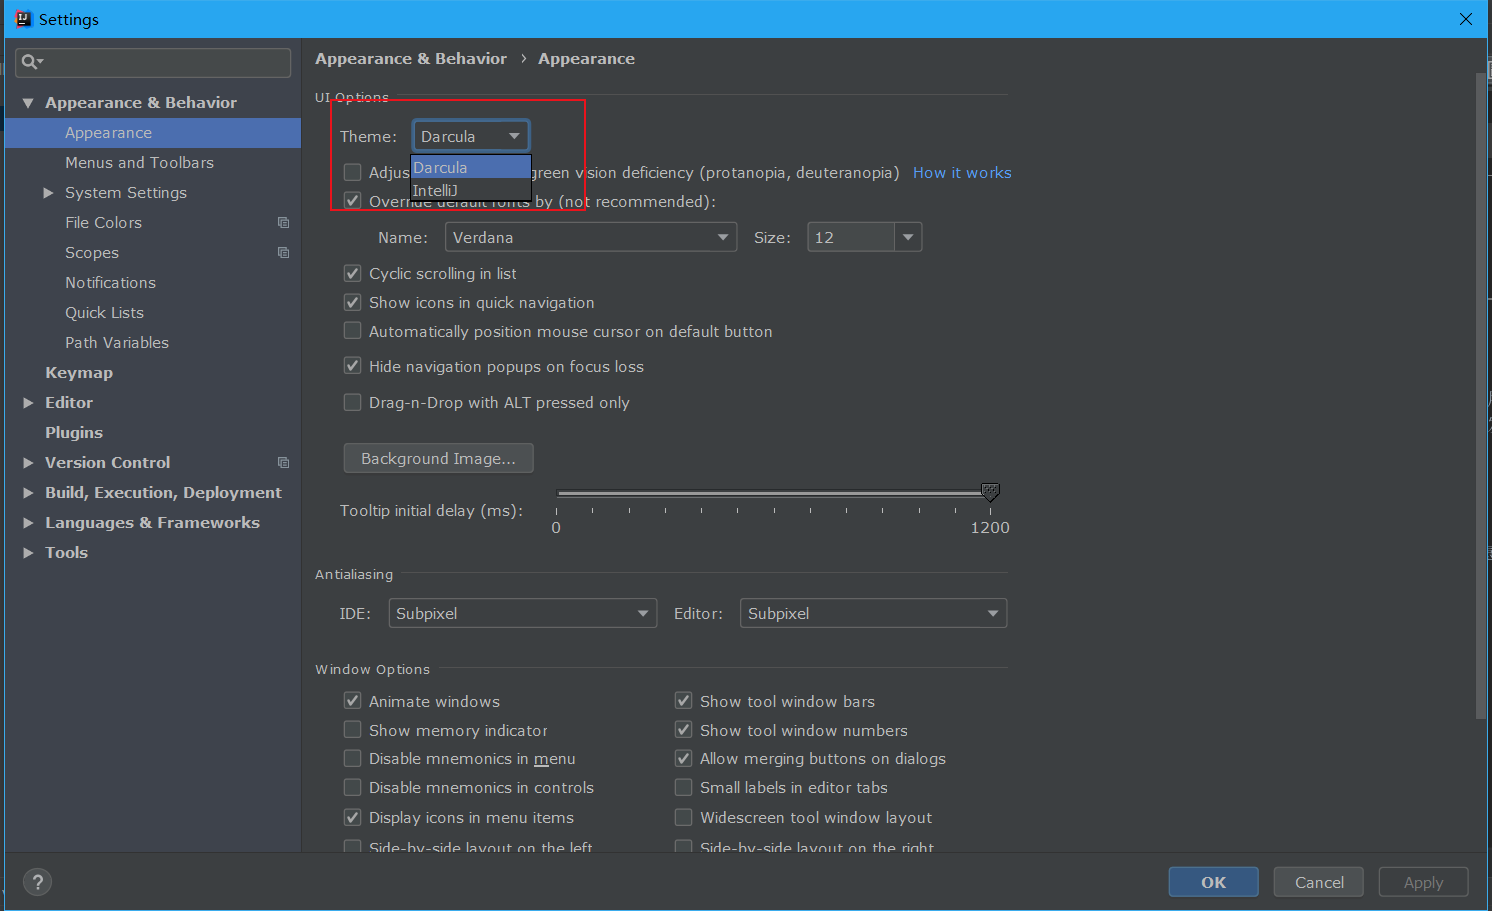
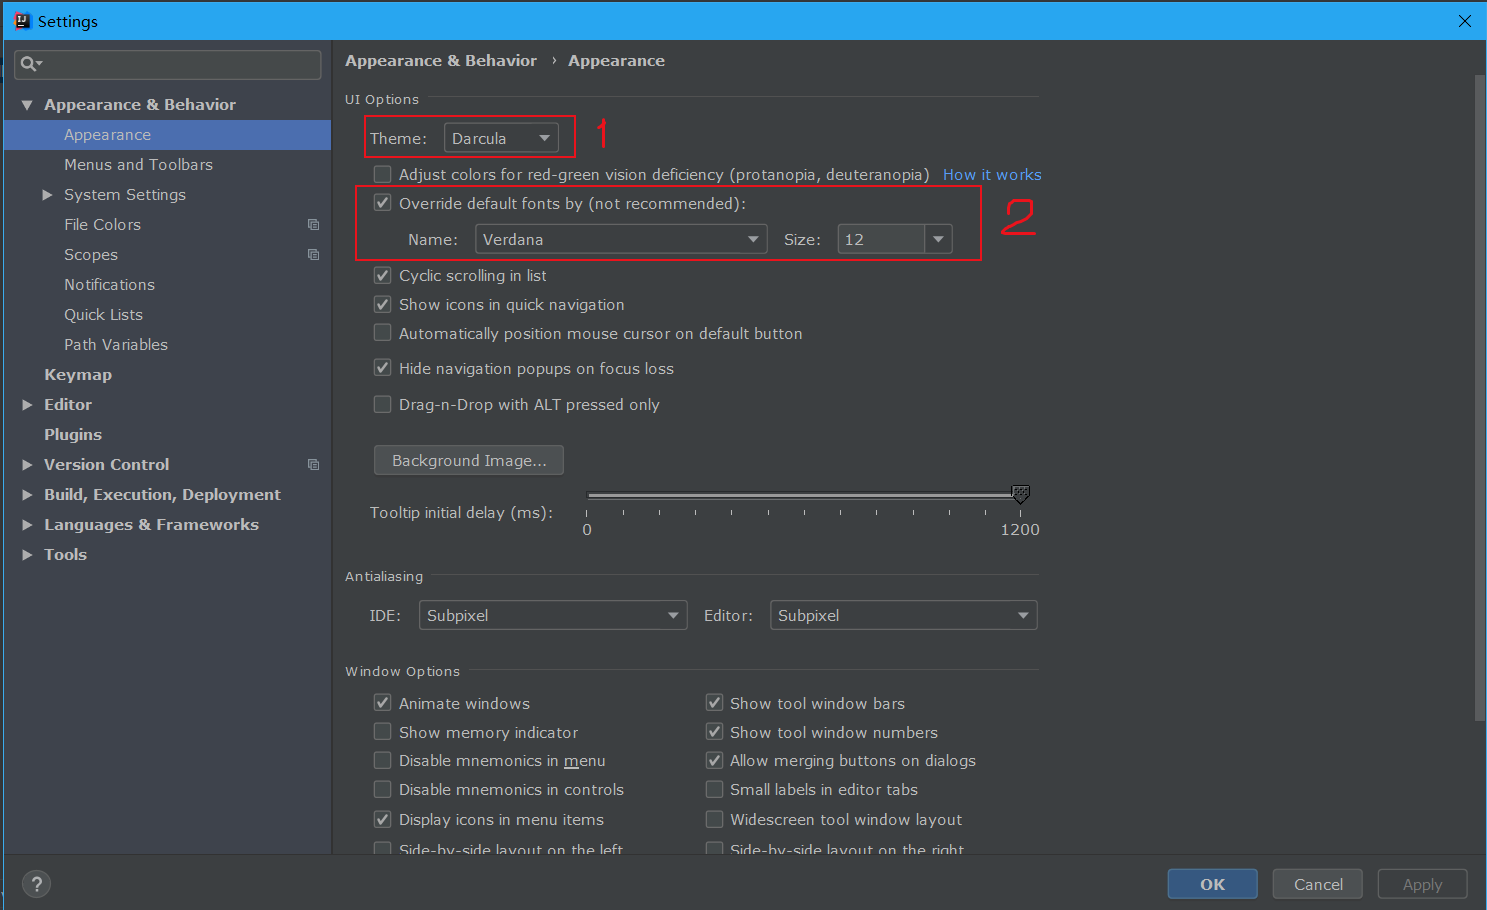
1.主题

diff --git a/README.md b/README.md
@@ -9,7 +9,9 @@
 #### 常用设置
 依次打开file -> Settings, 常用配置基本在这里。
 - ###### Appearance & Behavior
-  - Appearance需要设置的地方 
+  - Appearance需要设置的地方： 
+  - 1.主题修改，选择你喜欢的主题后需要重启才能生效，我喜欢黑色背景的所以选用了Darcula
+  - 2.主题字体可修改，这里修改需要注意有些字体不支持中文会出现乱码，我一般选择Verdana size：12就可以了
 ![theme](resources/1.png "theme")
 
 #### 代码模板
